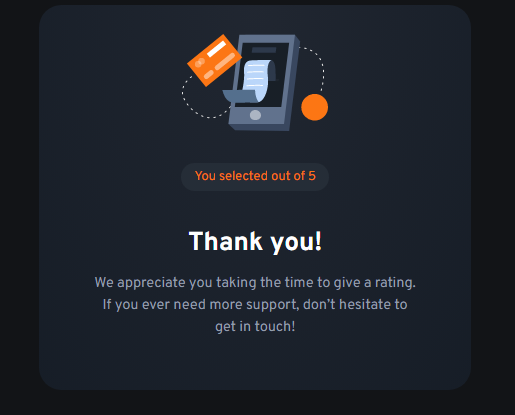
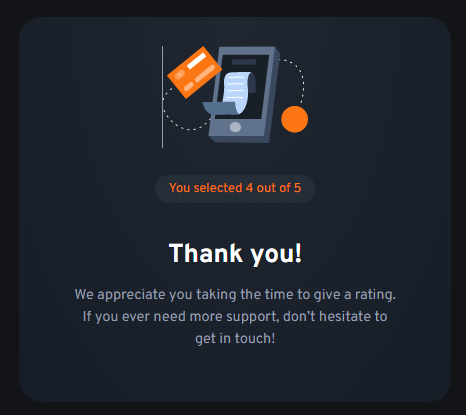
Solution of interactive rating component

diff --git a/index.html b/index.html
@@ -13,7 +13,6 @@
 
   <body>
     <main>
-      <!-- Rating state start -->
       <div class="top-container">
         <div class="star-icon">
           <img src="./images/icon-star.svg" alt="">
@@ -24,16 +23,14 @@
             to help us improve our offering!</p>
         </div>
         <div class="rating">
-          <span id="1">1</span>
-          <span id="2">2</span>
-          <span id="3">3</span>
-          <span id="4">4</span>
-          <span id="5">5</span>
+          <span class="rating-btn">1</span>
+          <span class="rating-btn">2</span>
+          <span class="rating-btn">3</span>
+          <span class="rating-btn">4</span>
+          <span class="rating-btn">5</span>
         </div>
-        <button class="btn" type="submit">Submit</button>
+        <button class="btn" id="submit-btn" type="submit">Submit</button>
       </div>
-      <!-- Rating state end -->
-      <!-- Thank you state start -->
       <div class="bottom-container">
         <div class="thanks-icon">
           <img src="./images/illustration-thank-you.svg" alt="">
@@ -47,7 +44,6 @@
             don’t hesitate to get in touch!</p>
         </div>
       </div>
-      <!-- Thank you state end -->
     </main>
     <footer class="attribution">
       Challenge by <a href="https://www.frontendmentor.io?ref=challenge" target="_blank">Frontend Mentor</a>. 

diff --git a/js/script.js b/js/script.js
@@ -1,0 +1,44 @@
+/***********************
+/*         Variables
+/**********************/
+let selectedRating;
+let clickedButton = null;
+
+/***********************
+/*         DOM
+/**********************/
+const ratingState = document.querySelector('.top-container');
+const thankYouState = document.querySelector('.bottom-container');
+thankYouState.style.display = 'none';
+const ratingButtons = document.querySelectorAll('.rating-btn');
+const submitButton = document.querySelector('#submit-btn');
+const ratingChoice = document.querySelector('#rating-choice');
+
+/***********************
+/*         Events
+/**********************/
+ratingButtons.forEach((button) =>
+	button.addEventListener('click', (e) => {
+		selectedRating = button.textContent;
+		ratingChoice.textContent = selectedRating;
+
+		e.target.style.background = 'hsl(217, 12%, 63%)';
+		e.target.style.color = 'hsl(0, 0%, 100%)';
+
+		if (clickedButton !== null) {
+			clickedButton.style.background = 'hsl(213, 19%, 18%)';
+		}
+
+		clickedButton = e.target;
+	})
+);
+
+submitButton.addEventListener('click', showThankYouState);
+
+/***********************
+/*         Functions
+/**********************/
+function showThankYouState() {
+	ratingState.style.display = 'none';
+	thankYouState.style.display = 'flex';
+}

diff --git a/README.md b/README.md
@@ -11,10 +11,6 @@ This is a solution to the [Interactive rating component challenge on Frontend Me
 - [My process](#my-process)
   - [Built with](#built-with)
   - [What I learned](#what-i-learned)
-  - [Continued development](#continued-development)
-  - [Useful resources](#useful-resources)
-- [Author](#author)
-- [Acknowledgments](#acknowledgments)
 
 ## Overview
 
@@ -48,22 +44,22 @@ Users should be able to:
 
 ### What I learned
 
-Use this section to recap over some of your major learnings while working through this project. Writing these out and providing code samples of areas you want to highlight is a great way to reinforce your own knowledge.
-
-To see how you can add code snippets, see below:
-
-```html
-<h1>Some HTML code I'm proud of</h1>
-```
-
-```css
-.proud-of-this-css {
-	color: papayawhip;
-}
-```
+How to change the background of a selected/clicked button in JS
 
 ```js
-const proudOfThisFunc = () => {
-	console.log('🎉');
-};
+ratingButtons.forEach((button) =>
+	button.addEventListener('click', (e) => {
+		selectedRating = button.textContent;
+		ratingChoice.textContent = selectedRating;
+
+		e.target.style.background = 'hsl(217, 12%, 63%)';
+		e.target.style.color = 'hsl(0, 0%, 100%)';
+
+		if (clickedButton !== null) {
+			clickedButton.style.background = 'hsl(213, 19%, 18%)';
+		}
+
+		clickedButton = e.target;
+	})
+);
 ```
